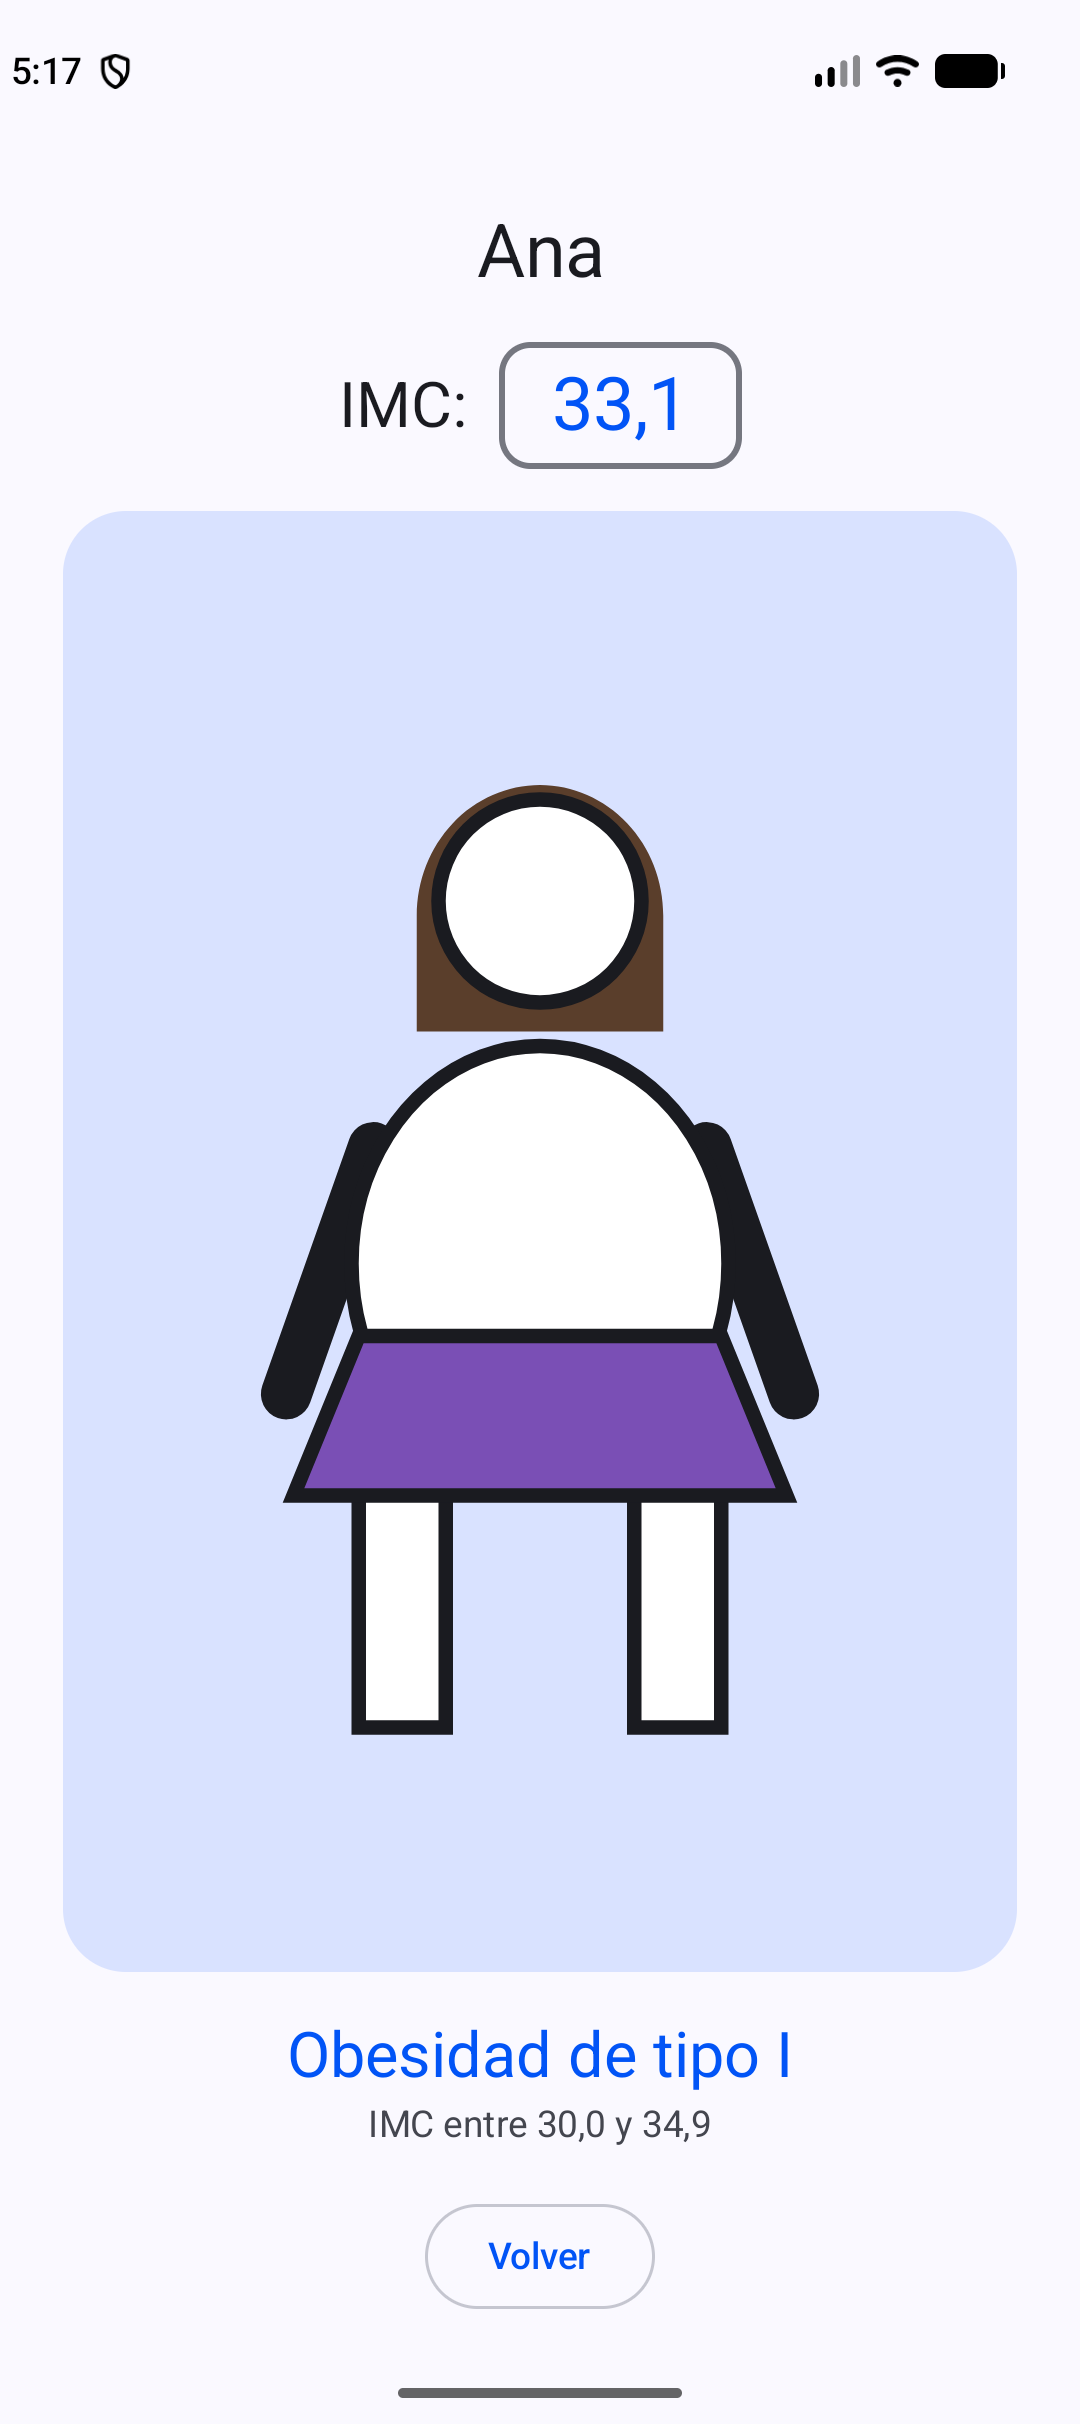
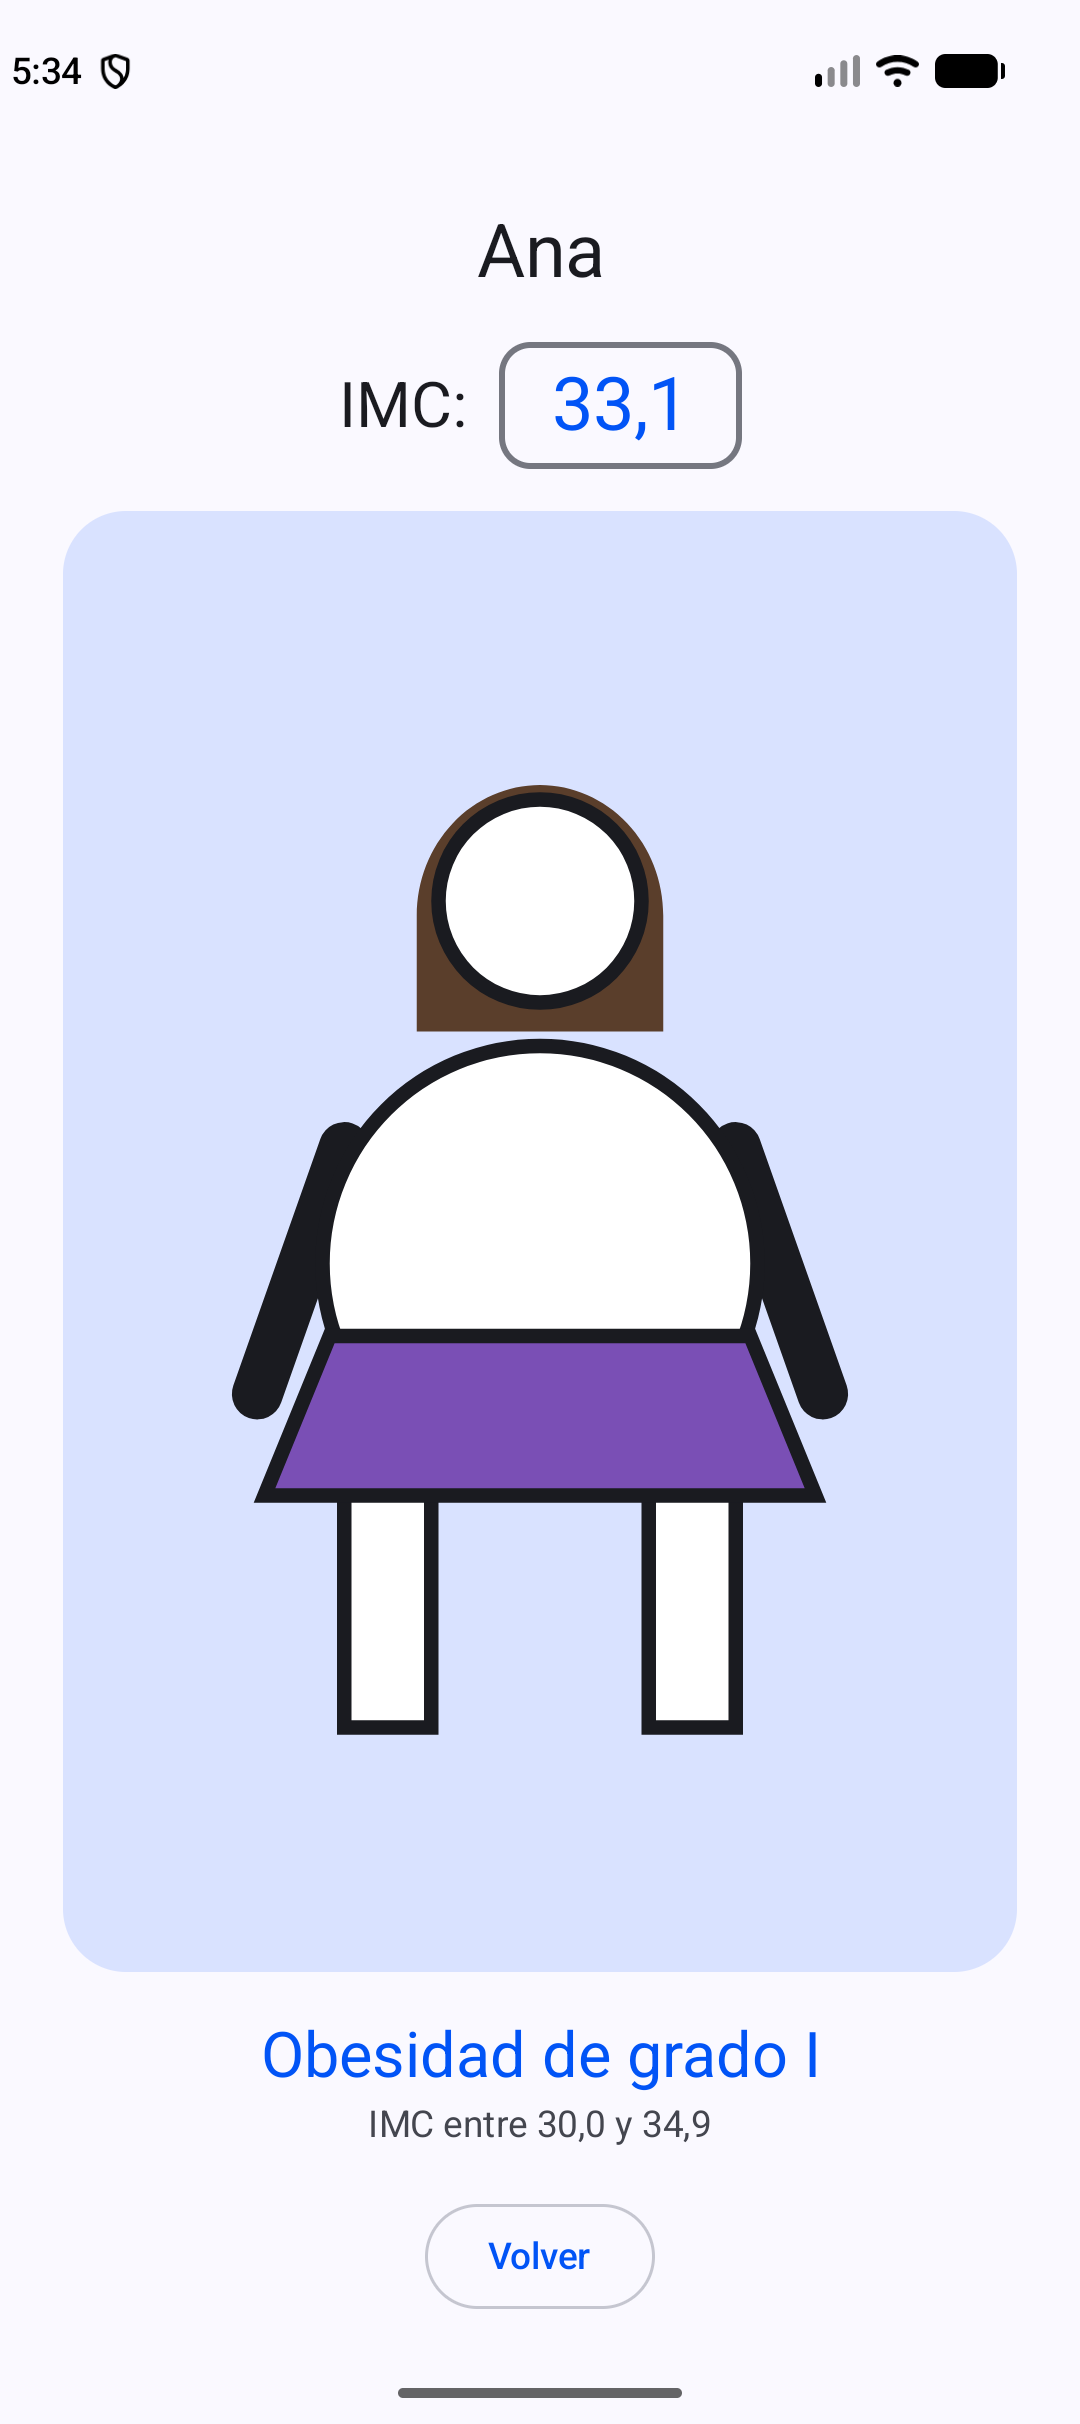
Clasificación del IMC de la OMS: 6 categorías
Bajo peso, peso normal, sobrepeso y obesidad de grado I, II y III. Se pasa de 8 a 6 ilustraciones por sexo y se actualizan el README y las capturas.

diff --git a/app/src/main/java/com/gonzalo/calculadora_imc/imc/Imc.kt b/app/src/main/java/com/gonzalo/calculadora_imc/imc/Imc.kt
@@ -22,7 +22,7 @@ enum class Sexo(val texto: String) {
 
 /**
  * Un rango del IMC: su nombre y el intervalo [minimo, maximo).
- * "maximo" no se incluye: un IMC de 25,0 ya es "Sobrepeso de grado I".
+ * "maximo" no se incluye: un IMC de 25,0 ya es "Sobrepeso".
  */
 data class RangoImc(
     val nombre: String,
@@ -31,34 +31,32 @@ data class RangoImc(
 )
 
 /**
- * LISTA INMUTABLE con los rangos oficiales de la SEEDO
- * (Sociedad Española para el Estudio de la Obesidad, consenso de 2007).
+ * LISTA INMUTABLE con la clasificación oficial de la OMS (Organización Mundial
+ * de la Salud) para adultos: 6 clases.
  * "listOf" crea una lista que no se puede modificar: los rangos nunca cambian.
  */
 val RANGOS_IMC: List<RangoImc> = listOf(
-    RangoImc("Peso insuficiente", 0.0, 18.5),
-    RangoImc("Normopeso", 18.5, 25.0),
-    RangoImc("Sobrepeso de grado I", 25.0, 27.0),
-    RangoImc("Sobrepeso de grado II (preobesidad)", 27.0, 30.0),
-    RangoImc("Obesidad de tipo I", 30.0, 35.0),
-    RangoImc("Obesidad de tipo II", 35.0, 40.0),
-    RangoImc("Obesidad de tipo III (mórbida)", 40.0, 50.0),
-    RangoImc("Obesidad de tipo IV (extrema)", 50.0, Double.POSITIVE_INFINITY),
+    RangoImc("Bajo peso", 0.0, 18.5),
+    RangoImc("Peso normal", 18.5, 25.0),
+    RangoImc("Sobrepeso", 25.0, 30.0),
+    RangoImc("Obesidad de grado I", 30.0, 35.0),
+    RangoImc("Obesidad de grado II", 35.0, 40.0),
+    RangoImc("Obesidad de grado III", 40.0, Double.POSITIVE_INFINITY),
 )
 
 /**
  * LISTAS INMUTABLES con una ilustración por rango, en el MISMO orden que RANGOS_IMC.
  * Para poner tus propios dibujos, sustituye los archivos de res/drawable
- * manteniendo el mismo nombre (imc_hombre_1 ... imc_mujer_8).
+ * manteniendo el mismo nombre (imc_hombre_1 ... imc_mujer_6).
  */
 val ILUSTRACIONES: Map<Sexo, List<Int>> = mapOf(
     Sexo.HOMBRE to listOf(
-        R.drawable.imc_hombre_1, R.drawable.imc_hombre_2, R.drawable.imc_hombre_3, R.drawable.imc_hombre_4,
-        R.drawable.imc_hombre_5, R.drawable.imc_hombre_6, R.drawable.imc_hombre_7, R.drawable.imc_hombre_8,
+        R.drawable.imc_hombre_1, R.drawable.imc_hombre_2, R.drawable.imc_hombre_3,
+        R.drawable.imc_hombre_4, R.drawable.imc_hombre_5, R.drawable.imc_hombre_6,
     ),
     Sexo.MUJER to listOf(
-        R.drawable.imc_mujer_1, R.drawable.imc_mujer_2, R.drawable.imc_mujer_3, R.drawable.imc_mujer_4,
-        R.drawable.imc_mujer_5, R.drawable.imc_mujer_6, R.drawable.imc_mujer_7, R.drawable.imc_mujer_8,
+        R.drawable.imc_mujer_1, R.drawable.imc_mujer_2, R.drawable.imc_mujer_3,
+        R.drawable.imc_mujer_4, R.drawable.imc_mujer_5, R.drawable.imc_mujer_6,
     ),
 )
 
@@ -69,7 +67,7 @@ fun calcularImc(pesoKg: Double, estaturaCm: Double): Double {
     return (imc * 10).roundToInt() / 10.0   // redondeamos ANTES de clasificar, para que número y estado coincidan
 }
 
-/** Posición del rango que corresponde a un IMC (0 = Peso insuficiente ... 7 = Obesidad de tipo IV). */
+/** Posición del rango que corresponde a un IMC (0 = Bajo peso ... 5 = Obesidad de grado III). */
 fun indiceRango(imc: Double): Int = RANGOS_IMC.indexOfFirst { imc < it.maximo }
 
 /** Escribe un número con coma decimal, como se hace en España: 24.3 -> "24,3". */

diff --git a/README.md b/README.md
@@ -1,13 +1,13 @@
 # Calculadora IMC
 
-App Android hecha 100 % con **Jetpack Compose** que calcula el **índice de masa corporal (IMC)** y muestra el estado de la persona según la tabla oficial de la SEEDO, con una ilustración distinta para cada estado y para cada sexo.
+App Android hecha 100 % con **Jetpack Compose** que calcula el **índice de masa corporal (IMC)** y muestra el estado de la persona según la clasificación oficial de la OMS, con una ilustración distinta para cada estado y para cada sexo.
 
 No usa layouts XML, librerías de navegación ni ViewModel: solo **estado + funciones composables**.
 
 <p align="center">
   <img src="docs/capturas/formulario.png" width="220" alt="Formulario con un peso fuera de rango marcado en rojo">
-  <img src="docs/capturas/resultado.png" width="220" alt="Resultado en modo claro: IMC 33,1, obesidad de tipo I">
-  <img src="docs/capturas/resultado_oscuro.png" width="220" alt="Resultado en modo oscuro: IMC 27,0, sobrepeso de grado II">
+  <img src="docs/capturas/resultado.png" width="220" alt="Resultado en modo claro: IMC 33,1, obesidad de grado I">
+  <img src="docs/capturas/resultado_oscuro.png" width="220" alt="Resultado en modo oscuro: IMC 27,0, sobrepeso">
 </p>
 
 ## Cómo funciona
@@ -28,20 +28,18 @@ IMC = peso (kg) / estatura (m)²
 - El IMC se redondea a un decimal **antes** de clasificarlo, para que el número que ves y el estado siempre coincidan.
 - **El sexo no forma parte de la fórmula**: solo sirve para elegir la ilustración.
 
-### Rangos oficiales (SEEDO)
+### Rangos oficiales (OMS)
 
-Clasificación de la Sociedad Española para el Estudio de la Obesidad (consenso de 2007):
+Clasificación del IMC en adultos de la Organización Mundial de la Salud: 6 categorías.
 
-| IMC | Estado |
-| --- | --- |
-| menor de 18,5 | Peso insuficiente |
-| 18,5 – 24,9 | Normopeso |
-| 25,0 – 26,9 | Sobrepeso de grado I |
-| 27,0 – 29,9 | Sobrepeso de grado II (preobesidad) |
-| 30,0 – 34,9 | Obesidad de tipo I |
-| 35,0 – 39,9 | Obesidad de tipo II |
-| 40,0 – 49,9 | Obesidad de tipo III (mórbida) |
-| 50,0 o más | Obesidad de tipo IV (extrema) |
+| # | IMC (kg/m²) | Categoría |
+| --- | --- | --- |
+| 1 | menor de 18,5 | Bajo peso |
+| 2 | desde 18,5 hasta menos de 25 | Peso normal |
+| 3 | desde 25 hasta menos de 30 | Sobrepeso |
+| 4 | desde 30 hasta menos de 35 | Obesidad de grado I |
+| 5 | desde 35 hasta menos de 40 | Obesidad de grado II |
+| 6 | 40 o más | Obesidad de grado III |
 
 ### Validación
 
@@ -80,14 +78,14 @@ com.gonzalo.calculadora_imc
 
 ## Cambiar las ilustraciones
 
-Los muñecos actuales son **provisionales**. Hay 16 archivos en `app/src/main/res/drawable`, uno por estado y por sexo:
+Los muñecos actuales son **provisionales**. Hay 12 archivos en `app/src/main/res/drawable`, uno por categoría y por sexo:
 
 ```
-imc_hombre_1.xml … imc_hombre_8.xml
-imc_mujer_1.xml  … imc_mujer_8.xml
+imc_hombre_1.xml … imc_hombre_6.xml
+imc_mujer_1.xml  … imc_mujer_6.xml
 ```
 
-El número es la posición del estado en la tabla de arriba (1 = Peso insuficiente … 8 = Obesidad de tipo IV).
+El número es la columna **#** de la tabla de arriba (1 = Bajo peso … 6 = Obesidad de grado III).
 
 Para poner un dibujo tuyo:
 
@@ -109,6 +107,6 @@ Requisitos: Android 8.0 (API 26) o superior.
 
 - Basado en el tutorial [Login_compose](https://github.com/sulbaranjc/Login_compose) de Juan Carlos Sulbaran Gonzalez y en mi versión del login, [Login_compose](https://github.com/Gonzarrrami/Login_compose).
 - El estilo del formulario es una adaptación de [Login Page](https://www.figma.com/community/file/1244126388179404671/login-page), de Adarsh, publicado en la comunidad de Figma con licencia [CC BY 4.0](https://creativecommons.org/licenses/by/4.0/).
-- Rangos del IMC: consenso SEEDO 2007 (Sociedad Española para el Estudio de la Obesidad).
+- Rangos del IMC: clasificación de la OMS (Organización Mundial de la Salud) para adultos.
 
 > Esta app es un ejercicio de clase. El IMC es una medida orientativa y no sustituye la valoración de un profesional sanitario.
